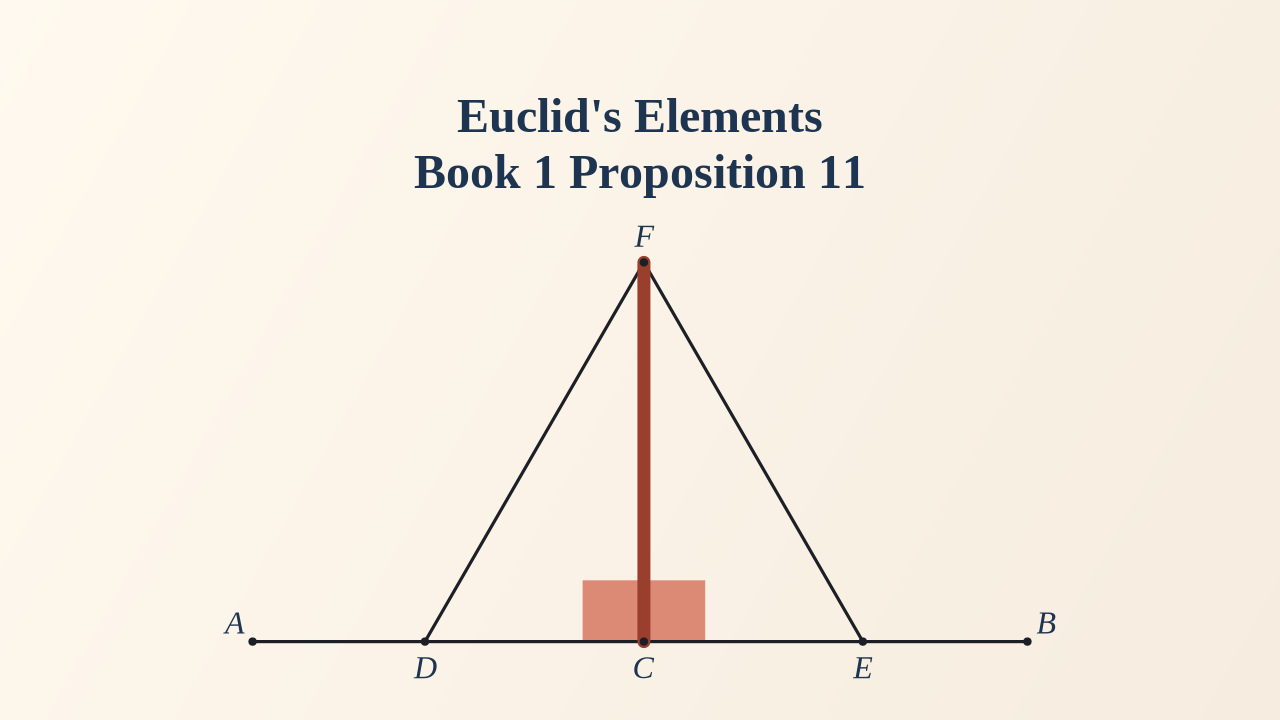
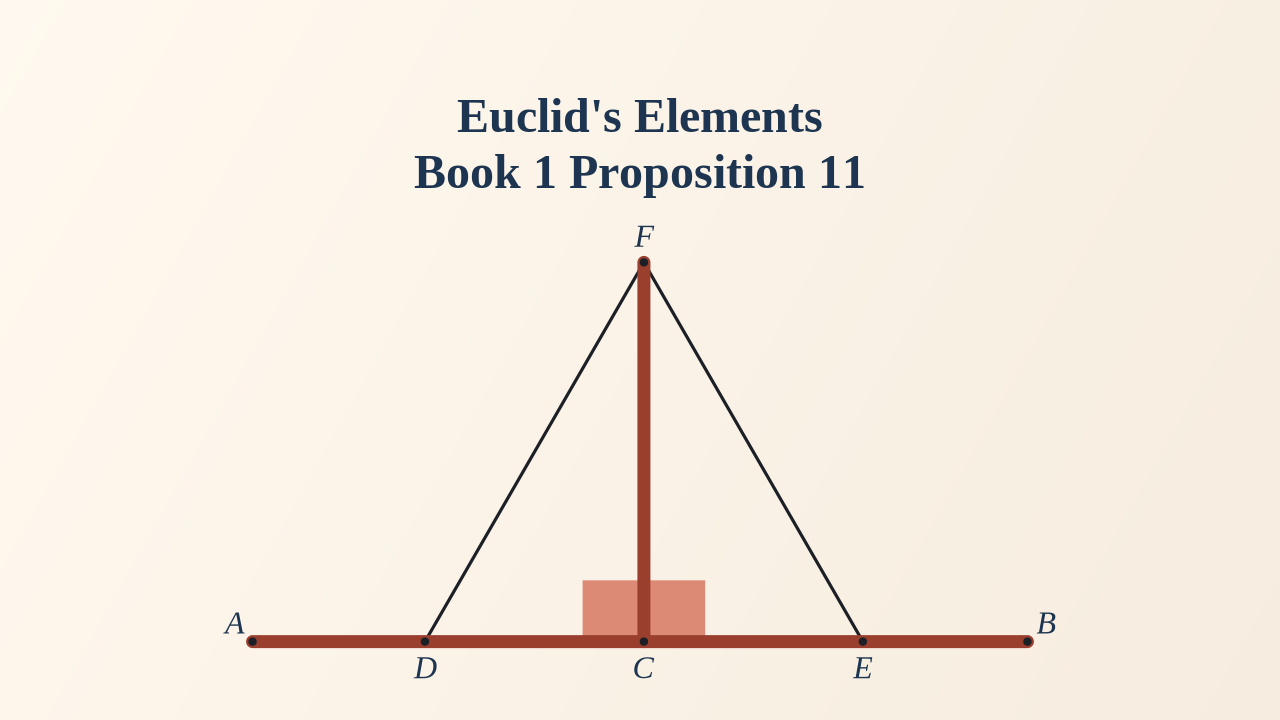
Mark both named lines on the I.11 and I.12 thumbnails. (#71)
The enunciation names the given line and the drawn perpendicular, so both take the brick. I.12 keeps the I.11 square size. I.13 and I.14 enlarge the right-hand pie to half again the I.42 radius. I.15 uses that default radius for both pairs; only the color differs.

Changed region(s): [[0.1875, 0.8556, 0.8125, 0.9167]]

diff --git a/scripts/youtube_book1_thumbs.py b/scripts/youtube_book1_thumbs.py
@@ -68,43 +68,45 @@ the bisector CD are the construction, not the subject — and marks the
 cut. AD and BD, the two halves, take the brick. A wash of ABC would
 light the triangle, which the proposition does not claim. I.11 draws a
 straight-line at right-angles to a given straight-line from a given
-point on it. The card keeps the plate — D, E, equilateral FDE and the
-sides DF and EF are the construction, not the subject — and marks the
-drawn line and the adjacent angles that make it a right-angle. FC takes
-the brick. ∠DCF and ∠ECF take one rose square, side the pie radius, a
-hair of the shorter arm, so the squares sit in the corners and do not
-fill the straight line. A pie would read as any angle. A wash of FDE
-would light the triangle, which the proposition does not claim. I.12 draws
+point on it. The enunciation names both lines. The card keeps the plate
+— D, E, equilateral FDE and the sides DF and EF are the construction,
+not the subject — and marks those two lines and the adjacent angles
+that make the drawn line a right-angle. AB and FC take the brick.
+∠DCF and ∠ECF take one rose square, side the pie radius, a hair of the
+shorter arm, so the squares sit in the corners and do not fill the
+straight line. A pie would read as any angle. A wash of FDE would light
+the triangle, which the proposition does not claim. I.12 draws
 a perpendicular to a given infinite straight-line from a point not on
-it. The card keeps the plate — D, circle EFG, G, E and the joins CG and
-CE are the construction, not the subject — and marks the drawn line and
-the adjacent angles that make it a perpendicular. CH takes the brick.
-∠CHG and ∠EHC take one rose square, side the pie radius, the same hair.
-A pie would read as any angle. A wash has no interior
-the enunciation names. I.13 is
+it. The enunciation names both lines. The card keeps the plate — D,
+circle EFG, G, E and the joins CG and CE are the construction, not the
+subject — and marks those two lines and the adjacent angles that make
+the drawn line a perpendicular. AB and CH take the brick. ∠CHG and
+∠EHC take one rose square, the I.11 card size, so the mark does not
+shrink on this larger plate. A pie would read as any angle. A wash has
+no interior the enunciation names. I.13 is
 the adjacent angles a straight-line stood on another makes: two
 right-angles, or angles whose sum is two right-angles. The card keeps
 the plate — BE is the right-angle drawn for the proof, not the subject —
 and marks the angles the enunciation names. ∠CBA and ∠ABD take one
 yellow pie, the I.42 card radius, so the mark matches that pie and
-does not shrink on this taller plate. ∠ABC takes a hair more than
-that radius — the acute corner would otherwise read as the lesser
-mark. A wash of the half-plane would light a region the
+does not shrink on this taller plate. ∠ABC takes half again that
+radius — a hair still reads as one size, and the acute corner would
+otherwise read as the lesser mark. A wash of the half-plane would light a region the
 proposition does not claim. I.14 is the converse: adjacent angles equal
 to two right-angles, so the two straight-lines are straight-on. The card
 keeps the plate — AB is the line they stand on, BE is the reductio, not
 the subject — and marks the two lines and the adjacent angles. BC and BD
 take the brick. ∠ABC and ∠ABD take one yellow pie, the I.42 card
-radius, as on I.13. ∠ABC takes a hair more than that radius — the
-acute corner would otherwise read as the lesser mark.
+radius, as on I.13. ∠ABD takes half again that radius, so the larger
+mark sits on the right, as on I.13.
 A wash has no interior.
 I.15 is the vertically opposite angles. The card keeps the plate — AB
 and CD are the two cutting lines, not a pair of equal lines — and marks
-the two equalities. ∠AEC and ∠DEB take the rose, a hair of the shorter
-arm. ∠AED and ∠CEB take the yellow, a hair more than that radius, so
-the second set is not the lesser mark, a pair reads as one set and the
-other pair as the other, and the pies do not cover the crossing. A wash of a sector would light a region the proposition does
-not claim. I.46 describes a square on a given straight-line. The card
+the two equalities. ∠AEC and ∠DEB take the rose. ∠AED and ∠CEB take
+the yellow. Both sets take the I.42 card radius, the default pie, so
+a pair reads as one set and the other pair as the other, and the only
+difference is the color. A wash of a sector would light a region the
+proposition does not claim. I.46 describes a square on a given straight-line. The card
 washes the square ADEB. The produced upright past D is the construction
 of the perpendicular, not a second figure, and the right angles are the
 square itself, not a separate mark. I.47 is the squares: the square on
@@ -243,12 +245,16 @@ LINES: dict[int, list[tuple[str, str]]] = {
     # AD = BD, the two halves of the given AB. D lies on AB, so each
     # half is the piece, and the whole chord is not a third stroke.
     10: [("A", "D"), ("B", "D")],
-    # FC, the straight-line drawn at right-angles to AB from C. DF and EF
-    # are the equilateral construction, not the subject.
-    11: [("F", "C")],
-    # CH, the perpendicular drawn to the infinite line AB from C. CG and CE
-    # are the joins of the construction, not the subject.
-    12: [("C", "H")],
+    # AB, the given straight-line, and FC, the line drawn at right-angles
+    # to it from C. The enunciation names both. D and E lie on AB, so the
+    # given line is the whole chord. DF and EF are the equilateral
+    # construction, not the subject.
+    11: [("A", "B"), ("F", "C")],
+    # AB, the given infinite straight-line, and CH, the perpendicular
+    # drawn to it from C. The enunciation names both. G, H and E lie on
+    # AB, so the given line is the whole chord. CG and CE are the joins
+    # of the construction, not the subject.
+    12: [("A", "B"), ("C", "H")],
     # BC and BD, the two straight-lines that are straight-on. BE is the
     # reductio, not the subject. AB is the line they stand on.
     14: [("B", "C"), ("B", "D")],
@@ -287,10 +293,10 @@ ANGLES: dict[int, list[list[tuple[str, str, str]]]] = {
     # ∠DAF = ∠EAF, the two halves of the given angle. One set.
     9: [[("D", "A", "F"), ("E", "A", "F")]],
     # ∠DCF = ∠ECF, the adjacent right-angles. One set, a square (SQUARE_MARK),
-    # not a pie. The drawn line is a brick (LINES), not a second mark.
+    # not a pie. Both lines the enunciation names are the brick (LINES).
     11: [[("D", "C", "F"), ("E", "C", "F")]],
     # ∠CHG = ∠EHC, the adjacent right-angles. One set, a square (SQUARE_MARK),
-    # not a pie. The drawn line is a brick (LINES).
+    # not a pie. Both lines the enunciation names are the brick (LINES).
     12: [[("C", "H", "G"), ("E", "H", "C")]],
     # ∠CBA and ∠ABD, the adjacent angles a stood line makes. One set: the
     # enunciation names the pair, not an equality of the two.
@@ -343,28 +349,31 @@ ANGLE_MARK: dict[int, list[tuple[tuple[int, int, int], float | None]]] = {
     # ∠DCF = ∠ECF, the adjacent angles that make the drawn line a
     # right-angle. One set, a hair of the shorter arm, so the squares sit
     # in the corners and do not fill the straight line. The side is that
-    # pie radius (SQUARE_MARK). The drawn line is the brick (LINES).
+    # pie radius (SQUARE_MARK). Both lines are the brick (LINES).
     11: [(PIE_ALT, 0.28)],
     # ∠CHG = ∠EHC, the adjacent angles that make the drawn line a
-    # perpendicular. One set, same hair, a square whose side is that pie
-    # radius (SQUARE_MARK). The drawn line is the brick.
-    12: [(PIE_ALT, 0.28)],
+    # perpendicular. One set, the I.11 card size: same pixel radius as
+    # that square, not a fraction of the arm. A shared plate radius
+    # shrinks on this larger plate. Both lines are the brick (LINES).
+    12: [(PIE_ALT, None)],
     # ∠CBA and ∠ABD, the angles the stood line makes. One set, the I.42
     # card size: same pixel radius as that pie, not a fraction of the arm.
-    # A shared plate radius shrinks on this taller plate. ∠ABC takes a
-    # hair more (ANGLE_HAIR) so the acute corner is not the lesser mark.
+    # A shared plate radius shrinks on this taller plate. ∠ABC takes half
+    # again (ANGLE_HAIR) so the two radii read apart, and so the acute
+    # corner is not the lesser mark.
     13: [(PIE, None)],
     # ∠ABC and ∠ABD, the adjacent angles equal to two right-angles. One
-    # set, the I.42 card size, as on I.13. ∠ABC takes a hair more
-    # (ANGLE_HAIR) so the acute corner is not the lesser mark. The two
-    # lines that are straight-on are the brick (LINES). BE is the reductio.
+    # set, the I.42 card size, as on I.13. ∠ABD takes half again
+    # (ANGLE_HAIR) so the larger mark sits on the right, as on I.13. The
+    # two lines that are straight-on are the brick (LINES). BE is the reductio.
     14: [(PIE, None)],
-    # I.15 has two equalities. Both sets take a hair of the shorter arm, so
-    # the pies sit in the corners and do not cover the crossing. One pair is
+    # I.15 has two equalities. Both sets take the default pie, the I.42
+    # card radius, so neither pair reads as the lesser mark. One pair is
     # the rose. The other is yellow, so the two equalities do not read as
-    # one. The yellow pair takes a hair more (ANGLE_HAIR) so the second set
-    # is not the lesser mark. Same radius within a pair.
-    15: [(PIE_ALT, 0.14), (PIE, 0.14)],
+    # one. Same radius within a pair and between pairs; only the color
+    # differs. A hair of the shorter arm is not this radius: on this plate
+    # that hair is the shorter mark, and the final render length is 54px.
+    15: [(PIE_ALT, None), (PIE, None)],
     # Rose, not yellow: the pie sits on the gold parallelogram, and yellow
     # reads as more of that wash. One plate radius for the pair — a fraction
     # of each arm would draw the longer angle larger. Short of the letter
@@ -380,22 +389,23 @@ ANGLE_MARK: dict[int, list[tuple[tuple[int, int, int], float | None]]] = {
     48: [(PIE_ALT, 0.28)],
 }
 
-# A hair on one pie, after the group radius. Same color, not a second set.
-# The acute of the pair — ∠ABC on I.13 and on I.14 — would otherwise read
-# as the lesser mark beside the obtuse pie. On I.15 the yellow pair is the
-# second set; both angles of that pair take the hair, so they stay equal.
+# A step on one pie, after the group radius. Same color, not a second set.
+# I.13 enlarges the acute ∠ABC, the pie on the right. I.14 enlarges ∠ABD,
+# the pie on the right, so the two cards match. Half again, not a hair: a
+# hair still reads as one radius at thumbnail size. I.15 keeps both pairs
+# at the default pie, the I.42 card radius; color already separates the
+# sets. A hair of the shorter arm is the shorter mark on that plate.
 ANGLE_HAIR: dict[tuple[int, str, str, str], float] = {
-    (13, "C", "B", "A"): 1.15,
-    (14, "A", "B", "C"): 1.15,
-    (15, "A", "E", "D"): 1.15,
-    (15, "C", "E", "B"): 1.15,
+    (13, "C", "B", "A"): 1.5,
+    (14, "A", "B", "D"): 1.5,
 }
 
 # A right-angle is a square, not a pie. The side is the radius the pie
 # would have taken, so the mark stays the same size and only the shape
-# changes. Two adjacent right-angles are two squares. I.11, I.12, and
-# the right-angle I.48 concludes. I.48's side squares are a light wash,
-# not this.
+# changes. Two adjacent right-angles are two squares. I.11 takes a hair
+# of the shorter arm; that square is the card size. I.12 uses the same
+# pixel side, so the larger plate does not shrink it. I.48 concludes a
+# right-angle the same way. I.48's side squares are a light wash, not this.
 SQUARE_MARK = {11, 12, 48}
 
 # Outer edges of the light squares, so the wash fits on the card. Not
